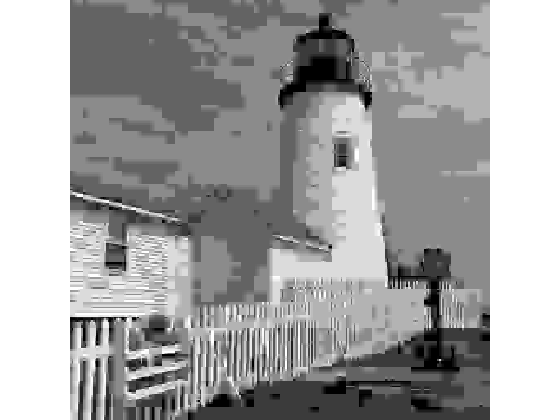
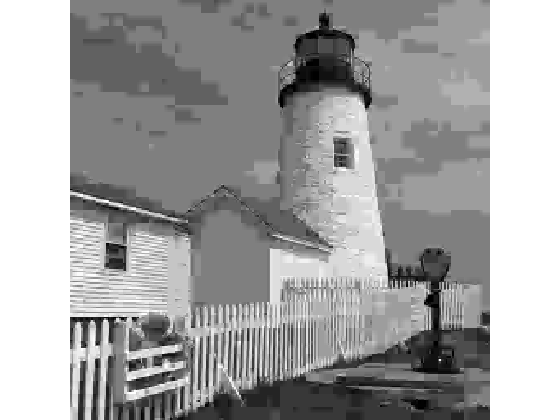
Updated report

diff --git a/lbtenc.m b/lbtenc.m
@@ -29,7 +29,7 @@ global huffhist  % Histogram of usage of Huffman codewords.
 error(nargchk(2, 6, nargin, 'struct'));
 if ((nargout~=1) && (nargout~=3)) error('Must have one or three output arguments'); end
 if (nargin<6)
-  dcbits = 9;
+  dcbits = 8;
   if (nargin<5)
     opthuff = false;
     if (nargin<4)
@@ -52,19 +52,20 @@ LBTim = LBT(X,8,sqrt(2));
 fprintf(1, 'Forward %i x %i DCT\n', N, N);
 C8=dct_ii(N);
 Y=colxfm(colxfm(LBTim,C8)',C8)'; 
-[xsize,ysize]=size(Y);
+% [xsize,ysize]=size(Y);
 %Second DCT layer
-Y(1:8,1:8)=colxfm(colxfm(Y(1:8,1:8),C8)',C8)';
+% Y(1:8,1:8)=colxfm(colxfm(Y(1:8,1:8),C8)',C8)';
 
 %Apply LBT
 
 % Quantise to integers.
 fprintf(1, 'Quantising to step size of %i\n', qstep); 
 Yq=dctquantise(Y,qstep);
-%Yq=quant1(Y,qstep,qstep); %This does normal quantisation, for comparison
+% Yq=quant1(Y,qstep,qstep); %This does normal quantisation, for comparison
 %sake
 
 % Generate zig-zag scan of AC coefs.
+% scan = [17,9,2,10,11,3,4,18,19,25,12,5,26,13,20,6,27,33,34,28,14,21,35,41,7,36,49,22,58,29,59,43,42,50,57,60,15,30,37,51,8,61,23,52,38,31,44,16,62,24,32,64,48,63,39,53,56,46,45,40,54,55,47];
 scan = diagscan(M);
 
 % On the first pass use default huffman tables.

diff --git a/lbtdec.m b/lbtdec.m
@@ -26,7 +26,7 @@ if (nargin<9)
   H = 256;
   W = 256;
   if (nargin<7)
-    dcbits = 9;
+    dcbits = 8;
     if (nargin<6)
       opthuff = false;
       if (nargin<4)
@@ -45,6 +45,8 @@ end
 
 % Set up standard scan sequence
 scan = diagscan(M);
+% scan = [17,9,2,10,11,3,4,18,19,25,12,5,26,13,20,6,27,33,34,28,14,21,35,41,7,36,49,22,58,29,59,43,42,50,57,60,15,30,37,51,8,61,23,52,38,31,44,16,62,24,32,64,48,63,39,53,56,46,45,40,54,55,47];
+
 
 if (opthuff)
   disp('Generating huffcode and ehuf using custom tables')
@@ -125,13 +127,13 @@ end
 
 fprintf(1, 'Inverse quantising to step size of %i\n', qstep);
 Zi=dctquantise2(Zq,qstep);
-%Zi=quant2(Zq,qstep,qstep);%This is for normal one step quantisation
+% Zi=quant2(Zq,qstep,qstep);%This is for normal one step quantisation
 
 fprintf(1, 'Inverse %i x %i DCT\n', N, N);
 C8=dct_ii(N);
 [xsize,ysize]=size(Zi);
 %Inverting first DCT layer
-Zi(1:8,1:8)=colxfm(colxfm(Zi(1:8,1:8)',C8')',C8');
+% Zi(1:8,1:8)=colxfm(colxfm(Zi(1:8,1:8)',C8')',C8');
 %Second DCT layer
 Zo=colxfm(colxfm(Zi',C8')',C8');
 Z=ILBT(Zo,8,sqrt(2));

diff --git a/lbtbit.m b/lbtbit.m
@@ -57,10 +57,13 @@ Y=colxfm(colxfm(LBTim,C8)',C8)';
 
 % Quantise to integers.
 fprintf(1, 'Quantising to step size of %i\n', qstep); 
-Yq=quant1(Y,qstep,qstep);
+Yq=dctquantise(Y,qstep);
+
 
 % Generate zig-zag scan of AC coefs.
 scan = diagscan(M);
+% scan = [17,9,2,10,11,3,4,18,19,25,12,5,26,13,20,6,27,33,34,28,14,21,35,41,7,36,49,22,58,29,59,43,42,50,57,60,15,30,37,51,8,61,23,52,38,31,44,16,62,24,32,64,48,63,39,53,56,46,45,40,54,55,47];
+
 
 % On the first pass use default huffman tables.
 disp('Generating huffcode and ehuf using default tables')

diff --git a/untitled2.m b/untitled2.m
@@ -1,0 +1,13 @@
+Q=[16 11 10 16 24 40 51 61; 12 12 14 19 26 58 60 55; 14 13 16 24 40 57 69 56;
+        14 17 22 29 51 87 80 62; 18 22 37 56 68 109 103 77; 24 35 55 64 81 104 113 92;49 64 78 87 103 121 120 101;72 92 95 98 112 100 103 99];
+    output=zeros(1,64);
+    count=1;
+ for i=1:64
+     [M,N]=min(Q);
+    [m,n]=size(M);
+    [r,c]=find(Q==min(min(Q)));
+    
+    output(count)=r(1)+(c(1)-1)*8;
+    Q(r(1),c(1))=999;
+    count=count+1;
+end

diff --git a/ungroup.m b/ungroup.m
@@ -1,0 +1,14 @@
+function imageout = ungroup(imagein,num)
+ sx = size(imagein);
+
+% Regroup the 8 subimages at each level, starting with the largest
+% subimages in Y.
+  k = N/2;  % Size of blocks of pels at each level.
+
+    tm = 1:sx(1);
+    tn = 1:sx(2);
+    tm2 = [reshape(tm,k,sx(1)/k); reshape(tm+sx(1),k,sx(1)/k)];
+    tn2 = [reshape(tn,k,sx(2)/k); reshape(tn+sx(2),k,sx(2)/k)];
+
+    Y(tm2(:),tn2(:)) = Y(1:(sx(1)*2),1:(sx(2)*2));
+end

diff --git a/saveanddisplay7.m b/saveanddisplay7.m
@@ -22,12 +22,12 @@ i=1;
 
 %INVESTIGATE THE DWT
 % Golden Search to find the ideal rise size.
-%        fun=@(x)dwtnumbit2(imagein,x);
-%        [step f]=fminbnd(fun,100,200);
-step=40;
+       fun=@(x)dwtnumbit(imagein,x);
+       [step f]=fminbnd(fun,5,20);
+% step=20;
 
-    [vlc bits huffval] = dwtenc2(imagein,step);
-    Z=dwtdec2(vlc,1);
+    [vlc bits huffval] = dwtenc(imagein,step);
+    Z=dwtdec(vlc,1);
     draw(Z);
     
 
